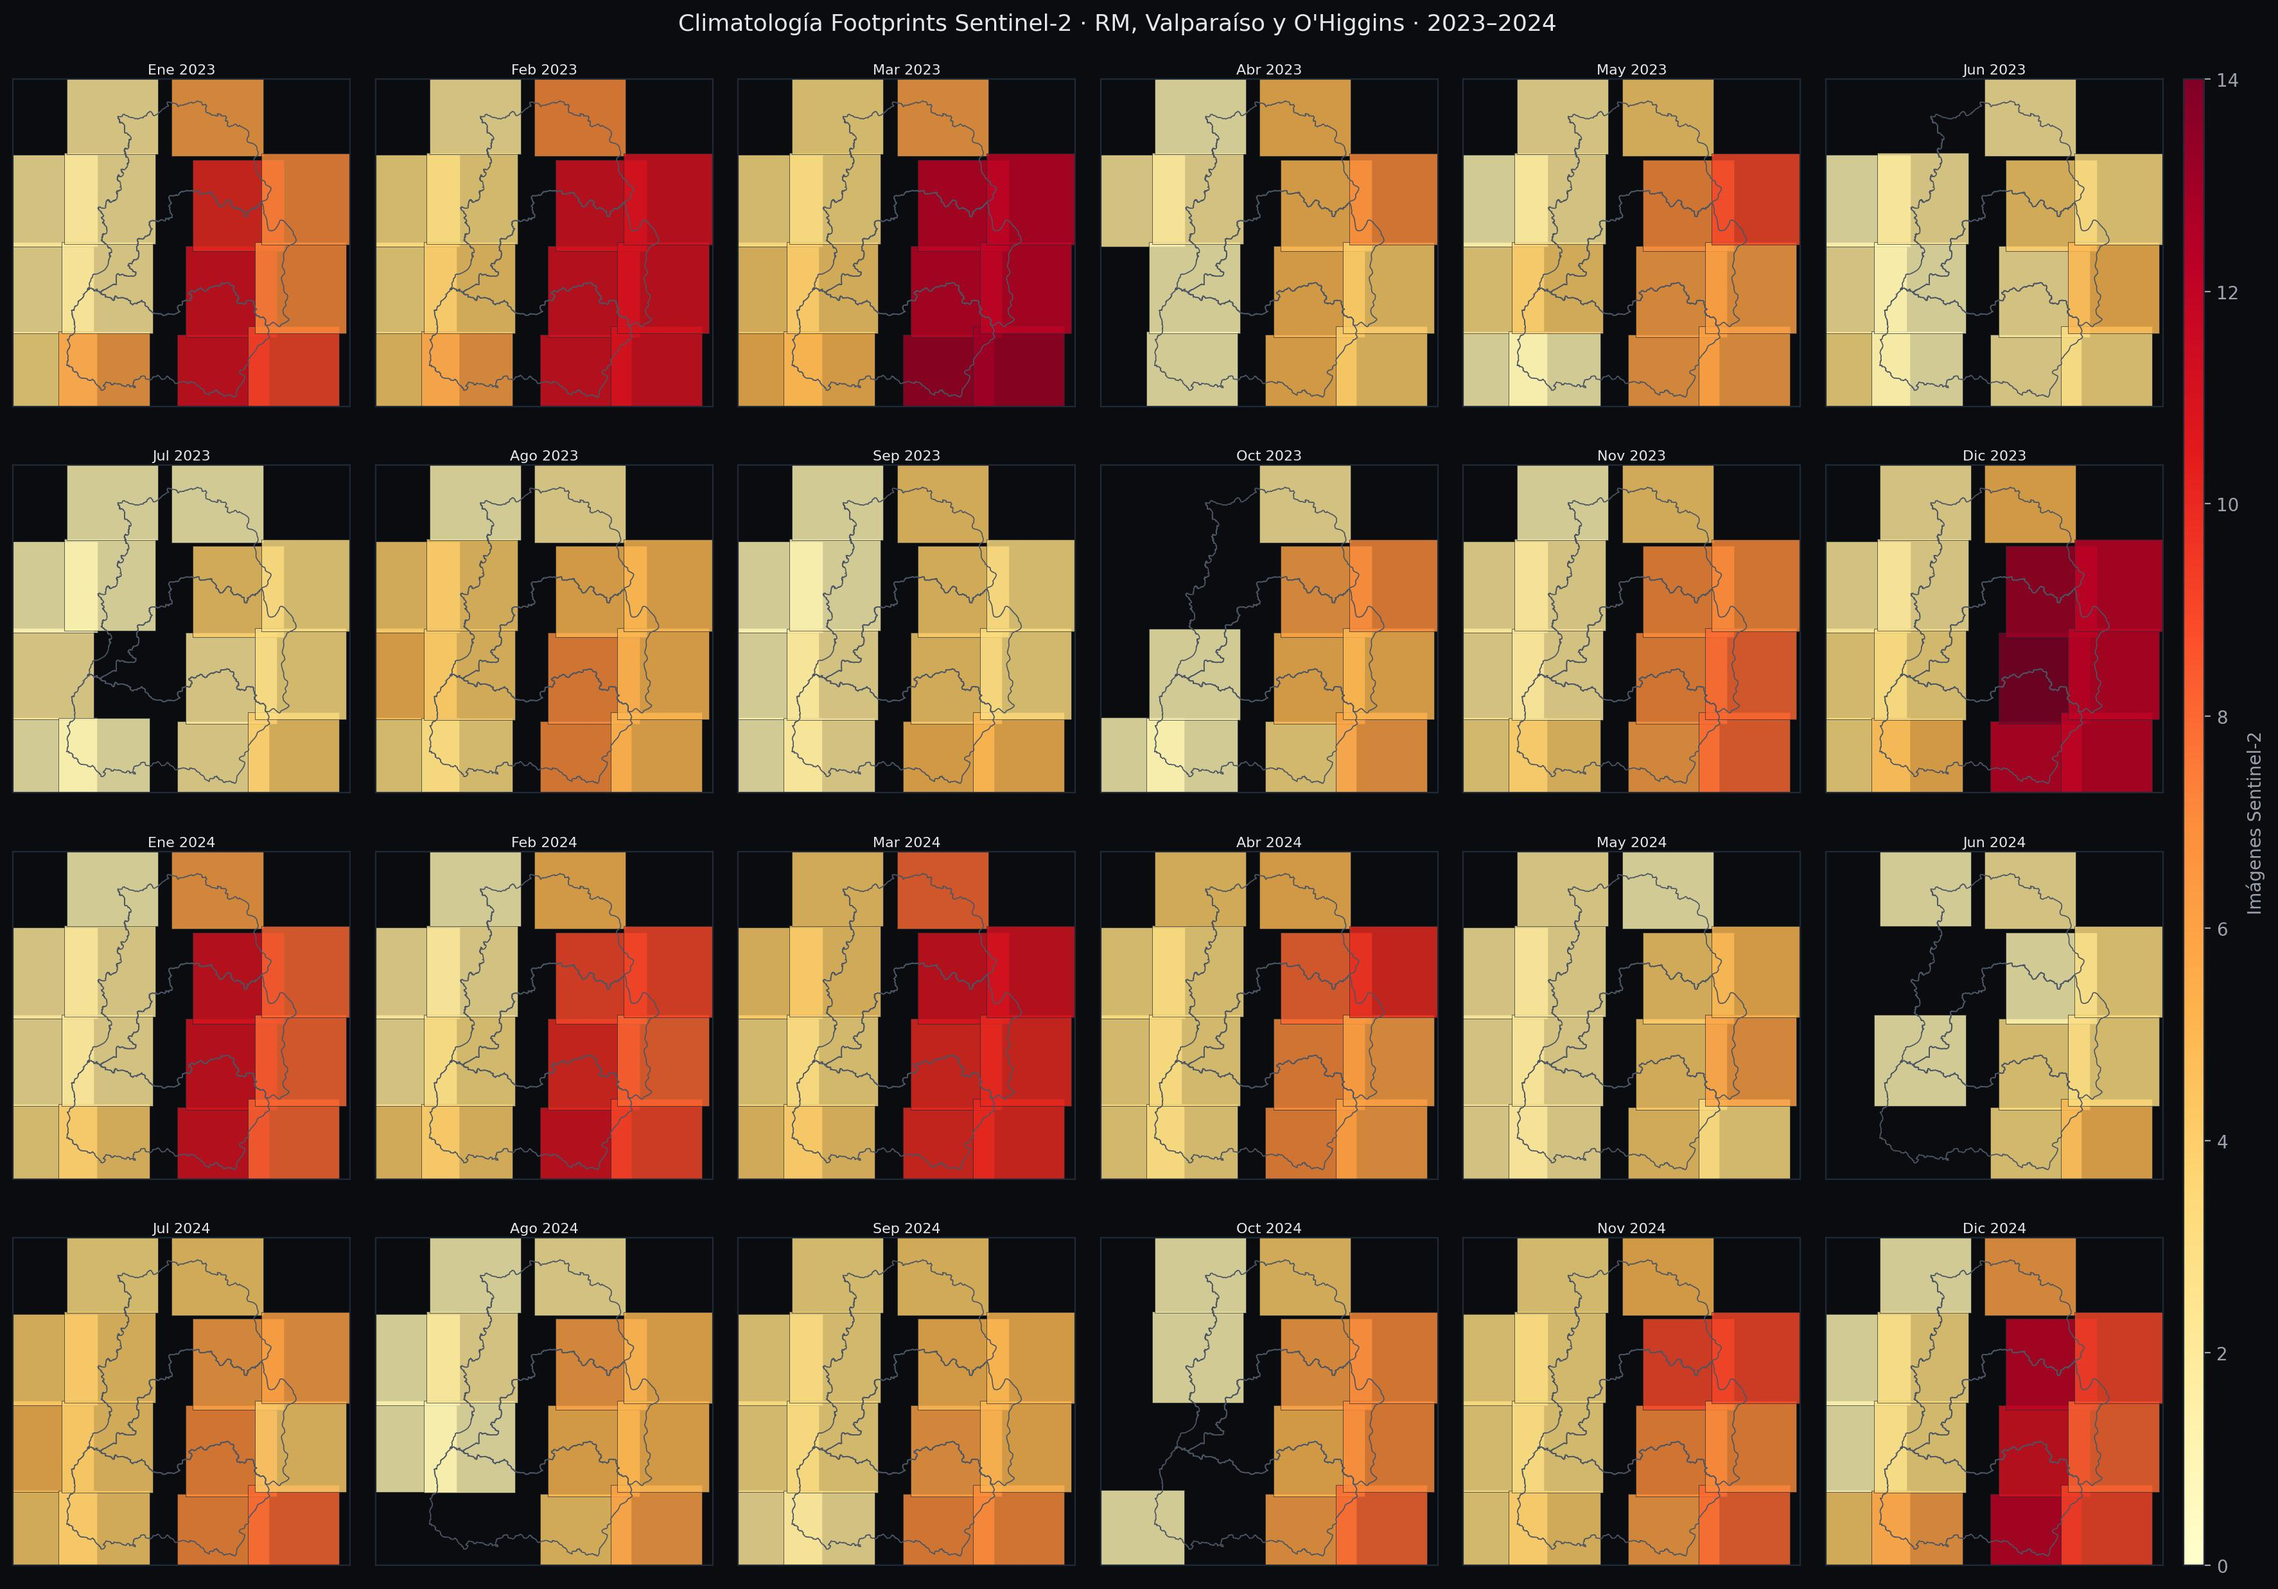
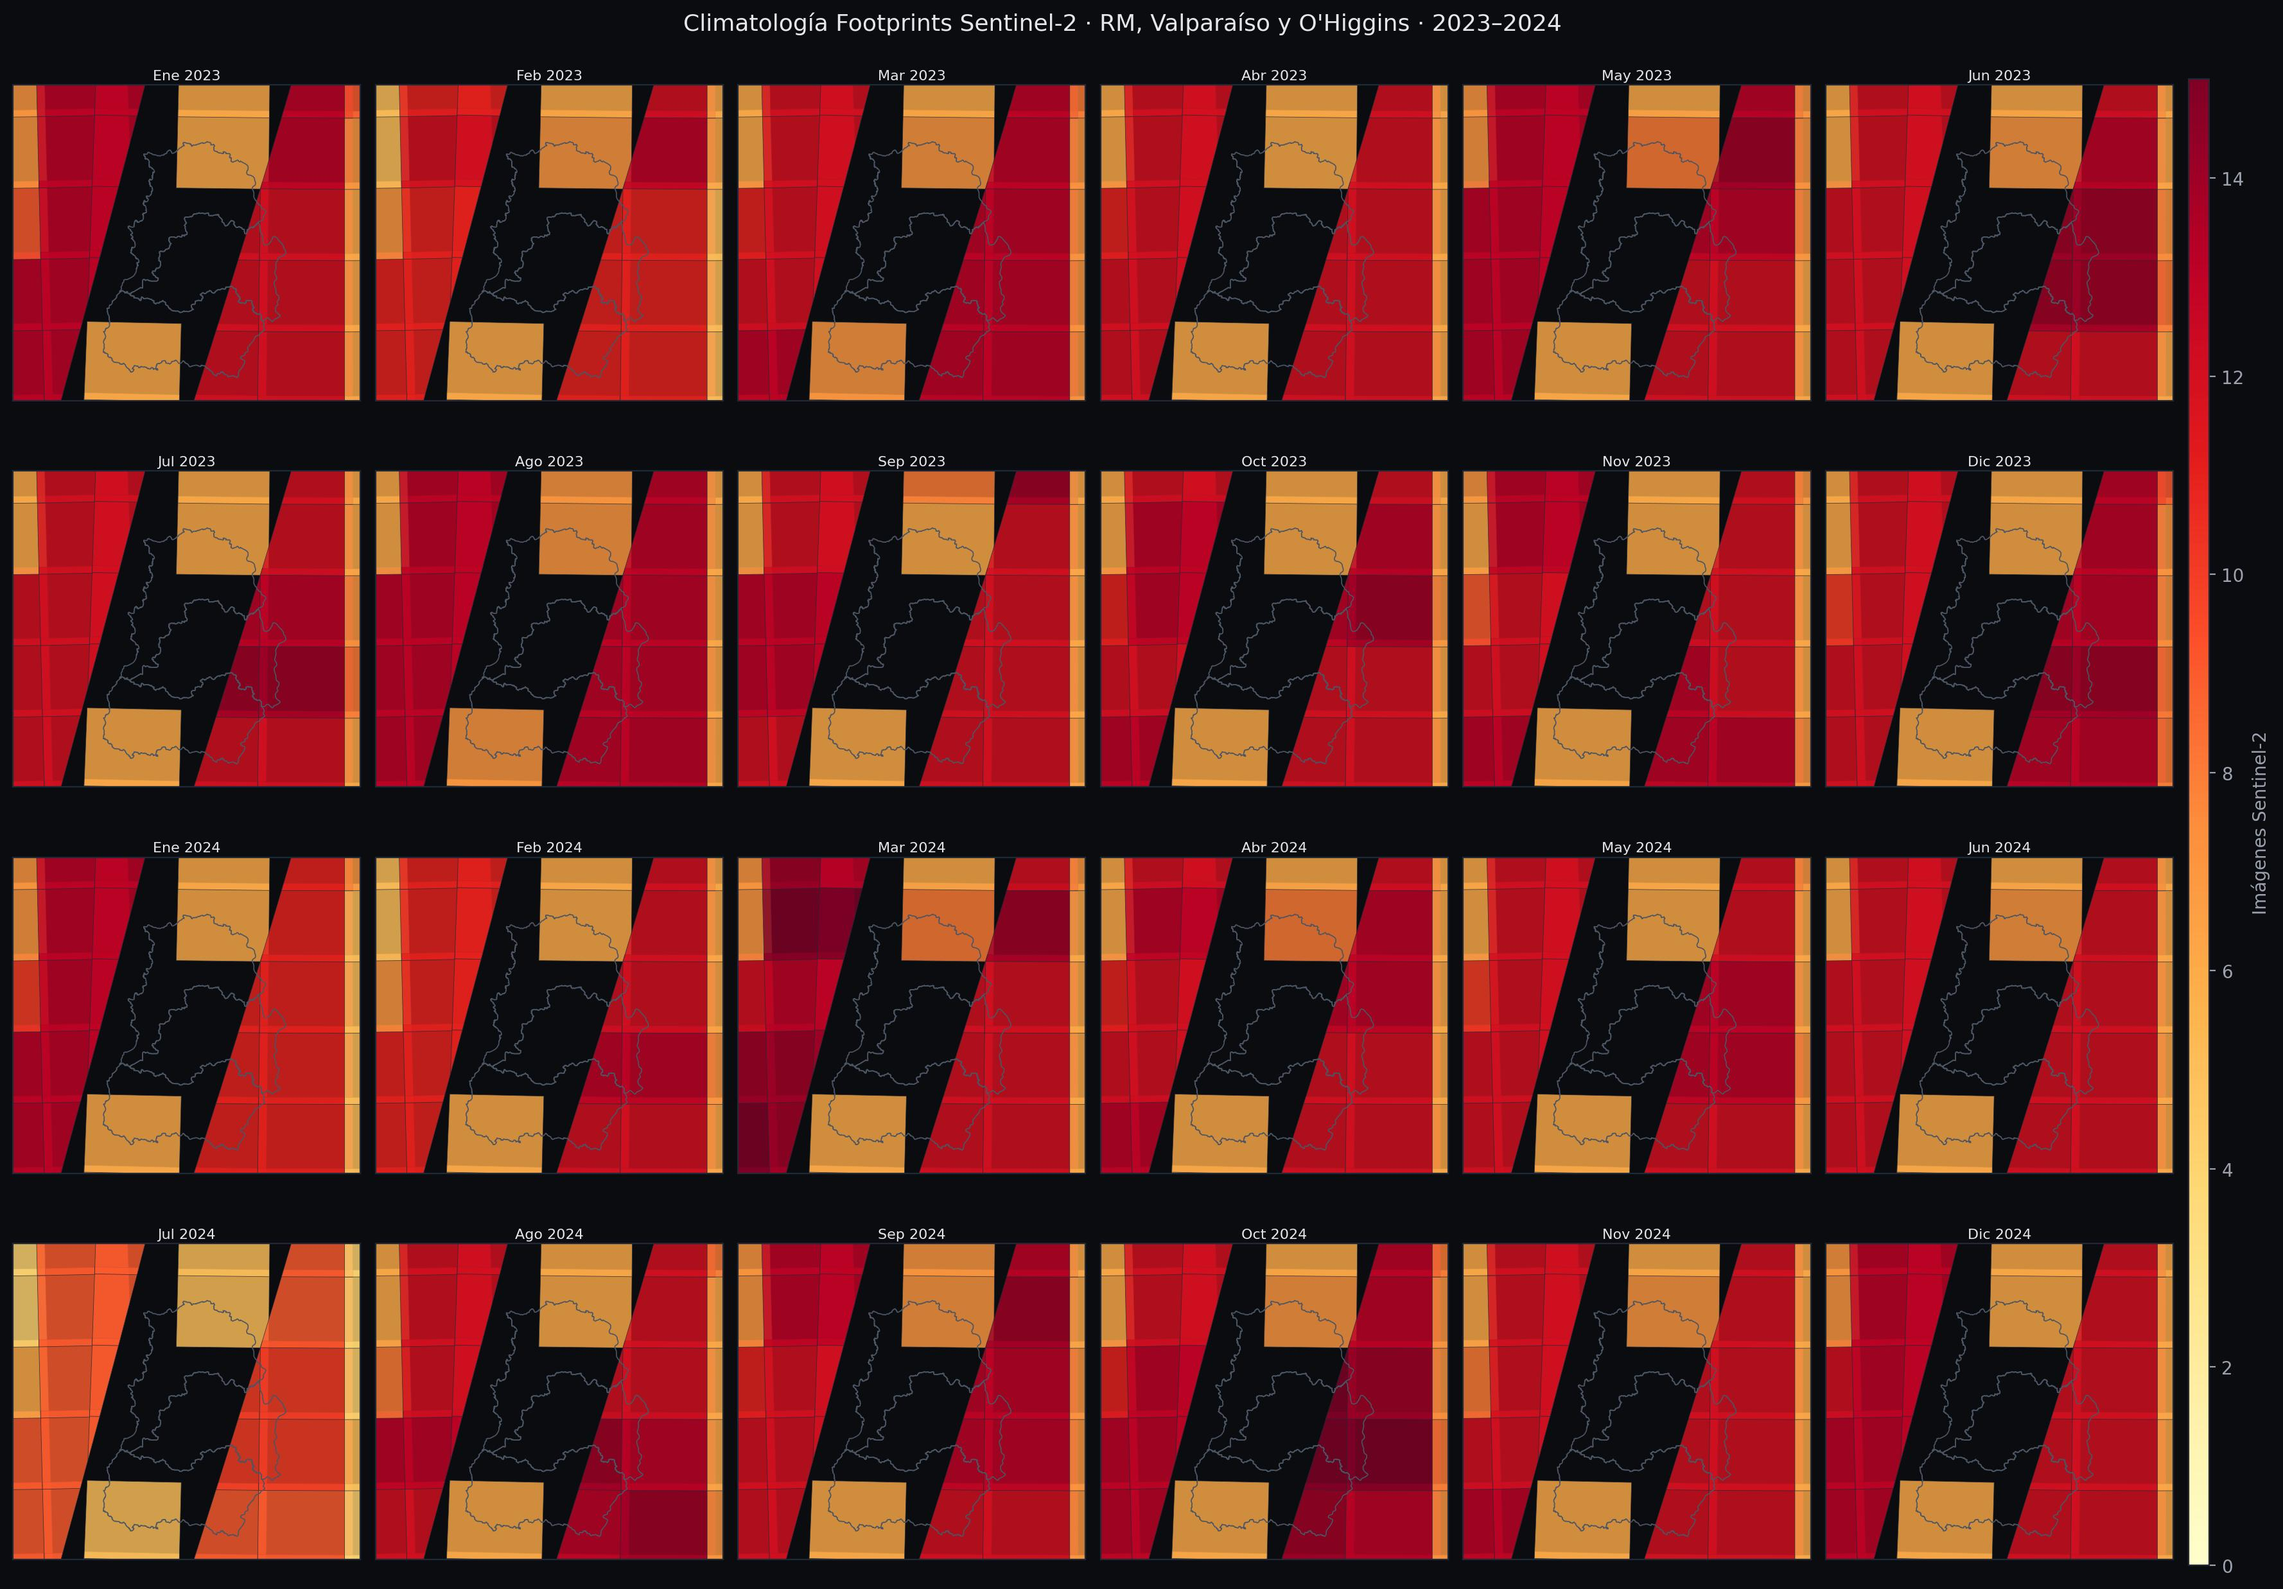
Carrusel de visualizaciones + teselado STAC completo
- Sección visualizaciones: animación full-width arriba, carrusel
  horizontal con flechas abajo (proyectos se agregan sin desplazar el layout)
- PROJECTS array en JS: agregar nuevo proyecto = 1 objeto
- Teselado regenerado desde API STAC Copernicus: 8 800 imágenes,
  36 tiles MGRS con footprints reales (vs 1 800 / 14 tiles del CSV GEE)

diff --git a/index.html b/index.html
@@ -126,13 +126,47 @@
     }
 
     /* ── SHOWCASE ── */
-    .showcase-grid {
-      display: grid;
-      grid-template-columns: 1fr 1fr;
-      gap: 16px;
+    /* project carousel */
+    .viz-carousel-wrap {
+      display: flex; align-items: center; gap: 10px;
+      margin-top: 16px;
     }
-    @media (max-width: 700px) { .showcase-grid { grid-template-columns: 1fr; } }
-    .showcase-full { grid-column: 1 / -1; }
+    .viz-carousel {
+      display: flex; gap: 12px;
+      overflow-x: hidden; flex: 1;
+      scroll-behavior: smooth;
+    }
+    .viz-slide {
+      flex: 0 0 240px;
+      background: var(--surface);
+      border: 1px solid var(--border);
+      border-radius: 10px; overflow: hidden;
+      cursor: pointer;
+      transition: border-color .15s, transform .15s;
+    }
+    .viz-slide:hover { border-color: var(--blue); transform: translateY(-2px); }
+    .viz-thumb-wrap { height: 160px; overflow: hidden; background: var(--bg); }
+    .viz-thumb { width: 100%; height: 100%; object-fit: cover; display: block; }
+    .viz-slide-label {
+      font-family: 'DM Mono', monospace;
+      font-size: 10px; font-weight: 600;
+      color: var(--blue-lt); text-transform: uppercase;
+      letter-spacing: .5px; padding: 10px 12px;
+    }
+    .viz-arr {
+      flex-shrink: 0; width: 34px; height: 34px;
+      background: var(--surface); border: 1px solid var(--border);
+      border-radius: 8px; color: var(--subtle);
+      font-size: 20px; cursor: pointer;
+      display: flex; align-items: center; justify-content: center;
+      transition: border-color .15s, color .15s;
+    }
+    .viz-arr:hover { border-color: var(--blue); color: #f3f4f6; }
+    .viz-arr:disabled { opacity: 0.3; cursor: default; }
+    @media (max-width: 700px) {
+      .viz-slide { flex: 0 0 200px; }
+      .viz-thumb-wrap { height: 130px; }
+    }
 
     .showcase-card {
       background: var(--surface);
@@ -556,10 +590,8 @@
   <div class="container">
     <p class="section-tag">Visualizaciones</p>
     <h2 class="section-title">En acción</h2>
-    <div class="showcase-grid">
-
-      <!-- Particle simulation — full width -->
-      <div class="showcase-card showcase-full"
+      <!-- Particle simulation — full width, standalone -->
+      <div class="showcase-card"
            data-detail="La simulación sigue partículas individuales advectadas por campos de velocidad 3D del modelo oceánico CROCO-ROMS. Se lanzaron trazadores desde múltiples puntos y profundidades (0–250 m) para estudiar el rol del remolino semipermanente del Golfo de Ancud y el forzamiento mareal en el transporte de material. El campo de velocidad cambia en cada paso de tiempo; las partículas responden en tiempo real.">
         <div class="showcase-label">Simulación lagrangiana de partículas — OpenDrift / CROCO-ROMS</div>
         <div id="canvas-fs-wrap">
@@ -582,86 +614,12 @@
         </p>
       </div>
 
-      <!-- Maps before/after — OCULTO hasta subir imágenes
-      <div class="showcase-card"
-           data-detail="El script lee coordenadas de instrumentos desde archivos JSON o KMZ, superpone imágenes satelitales ESRI, shapefiles de concesiones acuícolas y datos de viento/corriente ERA5. Reemplaza un flujo manual que requería Global Mapper y PowerPoint: el mapa se genera en segundos con layout y simbología estandarizados, y se exporta como JPG o PDF multipágina.">
-        <div class="showcase-label">Generador de mapas — antes / después</div>
-        <div class="compare-wrap" id="mapCompare">
-          <img class="cmp-img cmp-a" src="assets/mapa_antes.jpg" alt="Datos brutos" data-side="a">
-          <img class="cmp-img cmp-b" src="assets/mapa_despues.jpg" alt="Mapa generado" data-side="b">
-          <div class="compare-divider" id="cmpDivider"></div>
-          <div class="compare-knob"   id="cmpKnob">⟺</div>
-          <div class="img-placeholder" id="cmpPlaceholder">
-            <span class="ph-label">assets/mapa_antes.jpg</span>
-            <span class="ph-label">assets/mapa_despues.jpg</span>
-            <p class="ph-hint">Arrastrá para comparar<br>datos brutos vs. mapa generado</p>
-          </div>
-        </div>
-        <p class="showcase-caption">
-          Generador de mapas cartográficos para centros de monitoreo marino: de coordenadas en JSON/KMZ
-          a mapa georreferenciado con equipos (ADCP, anemómetros, boyas) y concesiones acuícolas.
-          Exporta JPG individual o PDF multipágina.
-        </p>
+      <!-- Project carousel — populated by JS -->
+      <div class="viz-carousel-wrap">
+        <button class="viz-arr" id="viz-prev" aria-label="Anterior">&#8249;</button>
+        <div class="viz-carousel" id="viz-carousel"></div>
+        <button class="viz-arr" id="viz-next" aria-label="Siguiente">&#8250;</button>
       </div>
-      -->
-
-      <!-- Celestial vault — ILLUMINA -->
-      <div class="showcase-card"
-           data-detail="ILLUMINA simula la transferencia radiativa de luz artificial en la atmósfera. Cada panel muestra la radiancia del cielo (W·sr⁻¹·m⁻²) en proyección polar: el centro es el cénit y el borde es el horizonte. La escala logarítmica permite ver varios órdenes de magnitud en un mismo colormap. Las diferencias entre longitudes de onda reflejan la dependencia espectral de la dispersión atmosférica de Rayleigh.">
-        <div class="showcase-label">Bóveda celeste — ILLUMINA</div>
-        <div class="fig-gallery">
-          <div class="fig-item">
-            <img src="assets/boveda_1.jpg" alt="ILLUMINA — sim 1">
-            <div class="img-placeholder">
-              <span class="ph-label">boveda_1.jpg</span>
-            </div>
-          </div>
-          <div class="fig-item">
-            <img src="assets/boveda_2.jpg" alt="ILLUMINA — sim 2">
-            <div class="img-placeholder">
-              <span class="ph-label">boveda_2.jpg</span>
-            </div>
-          </div>
-          <div class="fig-item">
-            <img src="assets/boveda_3.jpg" alt="ILLUMINA — sim 3">
-            <div class="img-placeholder">
-              <span class="ph-label">boveda_3.jpg</span>
-            </div>
-          </div>
-        </div>
-        <p class="showcase-caption">
-          Simulaciones de transferencia radiativa ILLUMINA para evaluación de contaminación lumínica
-          en el norte de Chile. Benchmark con datos de Hawái (SRTM + VIIRS), validados contra
-          mediciones de sky quality meters en terreno.
-        </p>
-      </div>
-
-      <!-- Cobertura Sentinel-2 -->
-      <div class="showcase-card"
-           data-detail="Pipeline desarrollado en Google Earth Engine (JavaScript) para descargar y procesar imágenes Sentinel-2 de forma masiva. El coroplético muestra la variación estacional de la cobertura disponible por región: más imágenes en verano (cielos despejados) y menos en invierno (nubosidad). Cada celda representa el conteo mensual de escenas válidas descargadas para el análisis de NDVI, NDWI y PAR.">
-        <div class="showcase-label">Cobertura Sentinel-2 — RM, Valparaíso y O'Higgins</div>
-        <div class="fig-gallery">
-          <div class="fig-item">
-            <img src="assets/teselado_1.jpg" alt="Climatología mensual Sentinel-2 2023-2024">
-            <div class="img-placeholder">
-              <span class="ph-label">teselado_1.jpg</span>
-            </div>
-          </div>
-          <div class="fig-item">
-            <img src="assets/teselado_2.jpg" alt="Cobertura Sentinel-2 Diciembre 2023">
-            <div class="img-placeholder">
-              <span class="ph-label">teselado_2.jpg</span>
-            </div>
-          </div>
-        </div>
-        <p class="showcase-caption">
-          Climatología de cobertura Sentinel-2 (2023–2024) para las regiones de Valparaíso,
-          Metropolitana y O'Higgins. Conteo mensual de imágenes disponibles, generado como
-          parte del pipeline de descarga masiva desarrollado para LATLON SpA / FONDART.
-        </p>
-      </div>
-
-    </div>
   </div>
 </section>
 
@@ -1272,18 +1230,67 @@
     return card ? card.dataset.detail || '' : '';
   }
 
-  // Galerías de imágenes — caption y detail compartidos por card
-  document.querySelectorAll('.fig-gallery').forEach(gallery => {
-    const imgs  = Array.from(gallery.querySelectorAll('.fig-item img'));
-    const cap   = cardCaption(gallery);
-    const det   = cardDetail(gallery);
-    const group = imgs.map(img => ({ src: img.src, caption: cap, detail: det }));
-    imgs.forEach((img, idx) => {
-      img.addEventListener('click', function () {
-        if (this.classList.contains('loaded')) open(group, idx);
+  // ── Proyectos del carrusel ────────────────────────────────────────────────
+  const PROJECTS = [
+    {
+      label:   'Bóveda celeste — ILLUMINA',
+      thumb:   'assets/boveda_1.jpg',
+      images:  ['assets/boveda_1.jpg', 'assets/boveda_2.jpg', 'assets/boveda_3.jpg'],
+      caption: 'Simulaciones de transferencia radiativa ILLUMINA para evaluación de contaminación lumínica en el norte de Chile. Benchmark con datos de Hawái (SRTM + VIIRS), validados contra mediciones de sky quality meters en terreno.',
+      detail:  'ILLUMINA simula la transferencia radiativa de luz artificial en la atmósfera. Cada panel muestra la radiancia del cielo (W·sr⁻¹·m⁻²) en proyección polar: el centro es el cénit y el borde es el horizonte. La escala logarítmica permite ver varios órdenes de magnitud en un mismo colormap. Las diferencias entre longitudes de onda reflejan la dependencia espectral de la dispersión atmosférica de Rayleigh.',
+    },
+    {
+      label:   'Cobertura Sentinel-2 — RM, Valparaíso y O\'Higgins',
+      thumb:   'assets/teselado_1.jpg',
+      images:  ['assets/teselado_1.jpg', 'assets/teselado_2.jpg'],
+      caption: 'Climatología de cobertura Sentinel-2 (2023–2024) para las regiones de Valparaíso, Metropolitana y O\'Higgins. Conteo mensual de escenas disponibles por tile MGRS (~100 km), generado como parte del pipeline de descarga masiva desarrollado para LATLON SpA / FONDART.',
+      detail:  'Metadatos descargados directamente desde la API STAC de Copernicus Data Space Ecosystem (~8 800 imágenes, 36 tiles, sin usar Google Earth Engine). Cada polígono representa el footprint real de un tile MGRS. La escala de color muestra el número de escenas L2A disponibles por mes; los máximos en primavera–verano reflejan menor nubosidad.',
+    },
+  ];
+
+  // Construir slides del carrusel
+  const vizCarousel = document.getElementById('viz-carousel');
+  const vizPrev     = document.getElementById('viz-prev');
+  const vizNext     = document.getElementById('viz-next');
+
+  if (vizCarousel) {
+    PROJECTS.forEach((proj, pi) => {
+      const slide = document.createElement('div');
+      slide.className = 'viz-slide';
+
+      const thumbWrap = document.createElement('div');
+      thumbWrap.className = 'viz-thumb-wrap';
+      const img = document.createElement('img');
+      img.className = 'viz-thumb';
+      img.src = proj.thumb;
+      img.alt = proj.label;
+      thumbWrap.appendChild(img);
+
+      const labelEl = document.createElement('div');
+      labelEl.className = 'viz-slide-label';
+      labelEl.textContent = proj.label;
+
+      slide.appendChild(thumbWrap);
+      slide.appendChild(labelEl);
+
+      // Abrir lightbox con todas las imágenes del proyecto
+      slide.addEventListener('click', () => {
+        const gallery = proj.images.map(src => ({
+          src, caption: proj.caption, detail: proj.detail
+        }));
+        open(gallery, 0);
       });
+
+      vizCarousel.appendChild(slide);
     });
-  });
+
+    // Navegación del carrusel
+    const SLIDE_W = 252; // 240px + 12px gap
+    vizPrev.addEventListener('click', () =>
+      vizCarousel.scrollBy({ left: -SLIDE_W, behavior: 'smooth' }));
+    vizNext.addEventListener('click', () =>
+      vizCarousel.scrollBy({ left: SLIDE_W, behavior: 'smooth' }));
+  }
 
   // Canvas de partículas — overlay propio con clase .is-fullscreen
   const demoCanvas  = document.getElementById('demo-canvas');
